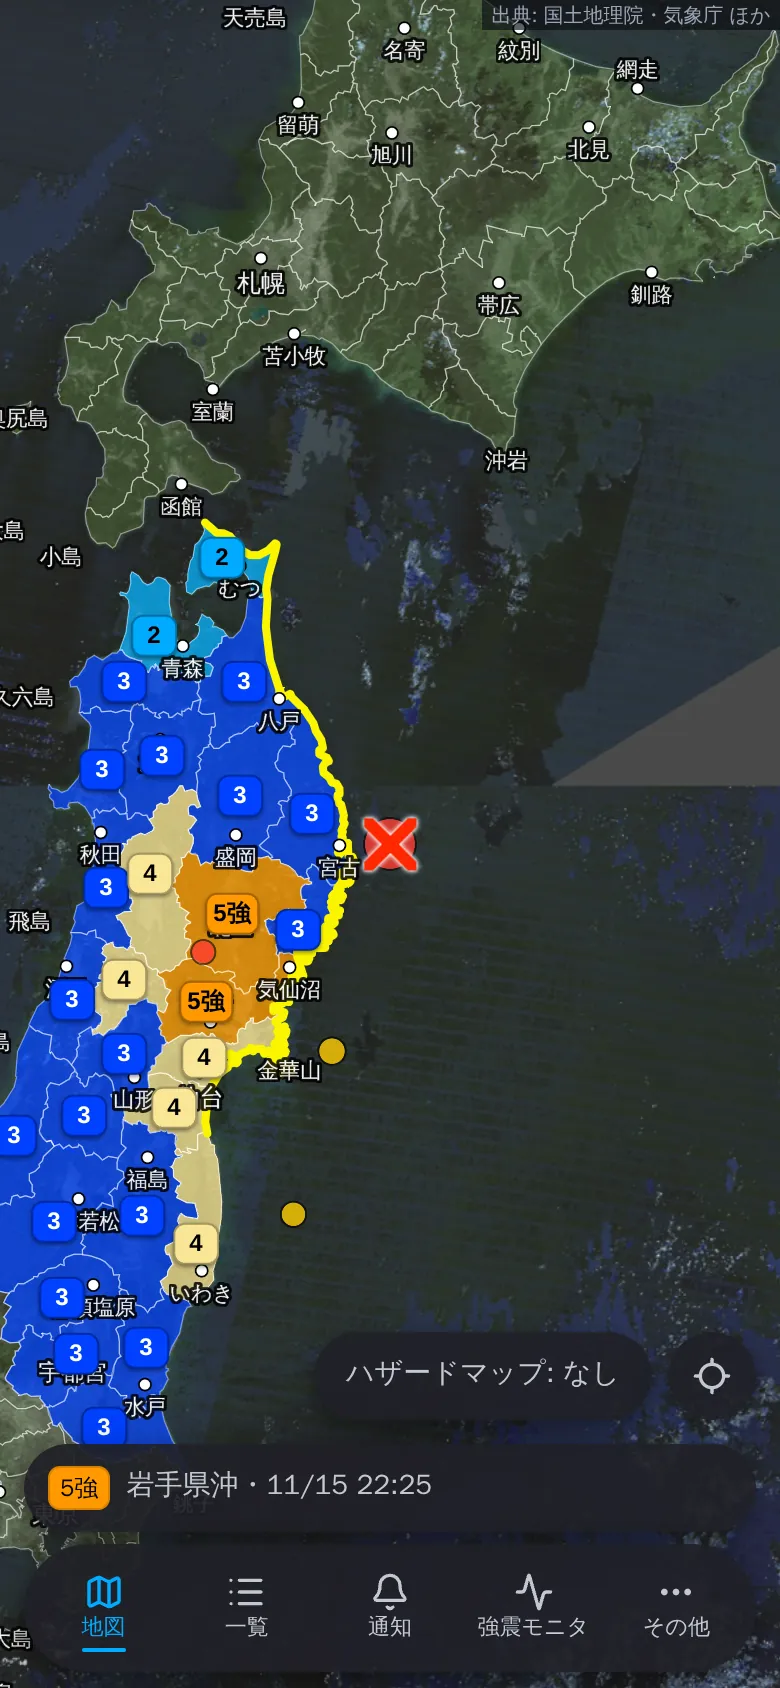
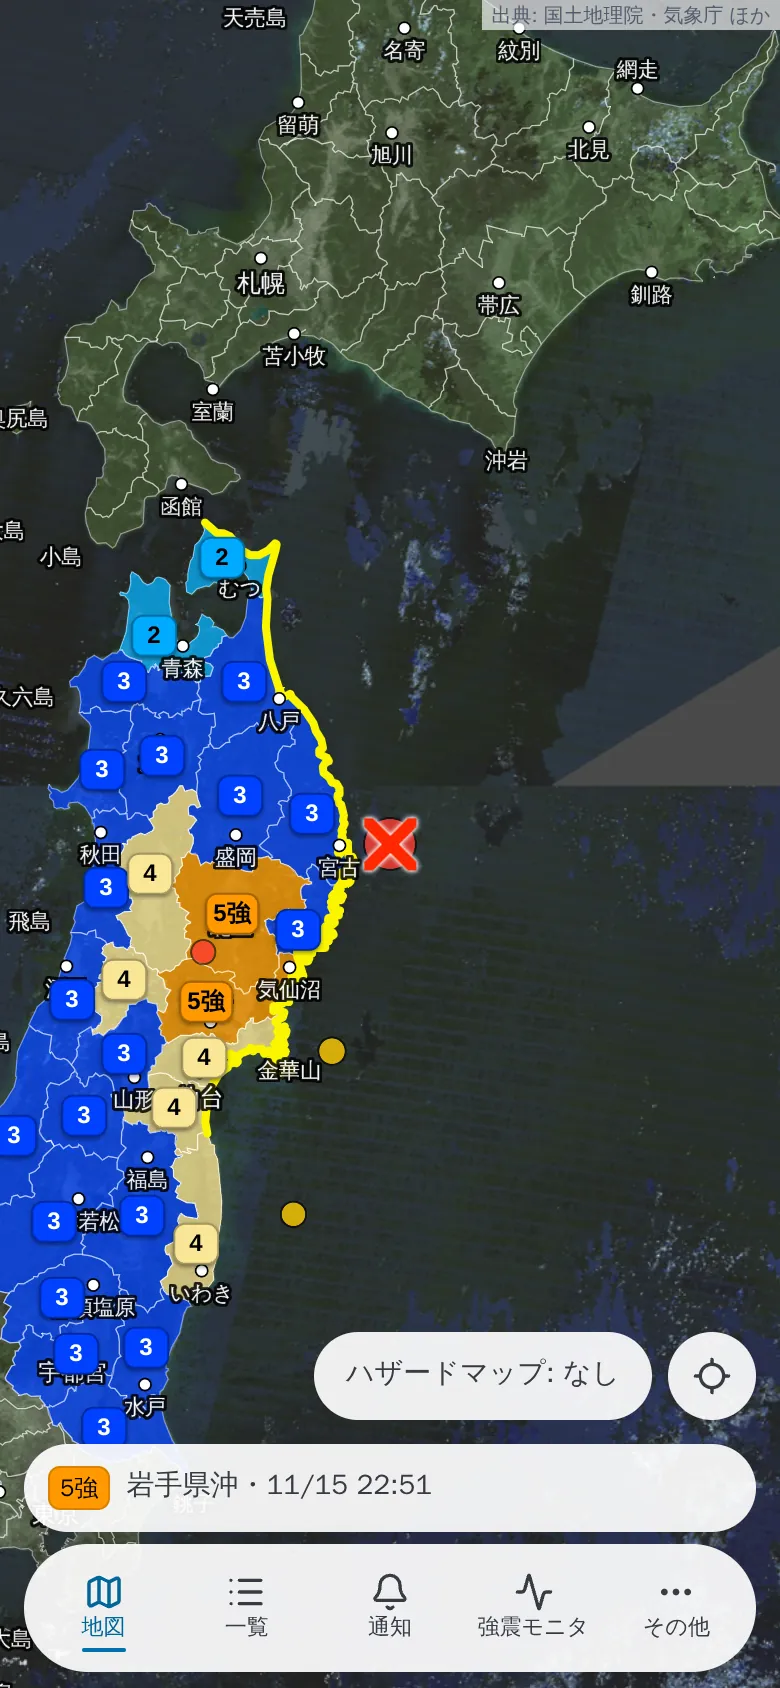
テーマの既定を端末に合わせる (描く前から)・スクリーンショットを明るいテーマで (#156)
* テーマ: 既定の「端末に合わせる」を描く前から確かにする・明るいテーマのマニフェスト

- <html> に固定の data-theme="dark" を書かない (スクリプトが描く前に付ける。動かなければ明るい)
- theme-color の既定を白に、明るいテーマでは地の色が白いマニフェスト (manifest-light.webmanifest) を読ませる
- 端末に合わせているときは、開いている間に端末の設定が変わっても付け直す

Claude-Session: https://claude.ai/code/session_01T8TqVdo6LUrWKdVQgbScVU

* README のスクリーンショットを明るいテーマで撮り直す (テーマは保存せず、端末に合わせる既定のまま)

Claude-Session: https://claude.ai/code/session_01T8TqVdo6LUrWKdVQgbScVU

* レビュー: app.html のマニフェストの置き換えもテストで見る・ホーム画面に足したあとは色が替わらないことを docs に

Claude-Session: https://claude.ai/code/session_01T8TqVdo6LUrWKdVQgbScVU

---------

Changed region(s): [[0.0308, 0.7701, 0.9846, 1.0], [0.6154, 0.0, 1.0, 0.0308]]

diff --git a/src/app.html b/src/app.html
@@ -1,5 +1,6 @@
 <!doctype html>
-<html lang="ja" data-theme="dark">
+<!-- テーマ (data-theme) は下のスクリプトが描く前に付ける。スクリプトが動かなければ明るいテーマ (app.css) -->
+<html lang="ja">
   <head>
     <meta charset="utf-8" />
     <meta name="viewport" content="width=device-width, initial-scale=1" />
@@ -8,7 +9,7 @@
       href="%sveltekit.assets%/favicon.svg"
       type="image/svg+xml"
     />
-    <meta name="theme-color" content="#0b0c0f" />
+    <meta name="theme-color" content="#ffffff" />
     <!-- iPhone・iPad はホーム画面に追加した Web アプリでだけ Web Push が届く (docs/design.md の 2.4) -->
     <link rel="manifest" href="%sveltekit.assets%/manifest.webmanifest" />
     <!-- iOS のホーム画面のアイコン (SVG は読まないので PNG。tools/icons/build.sh で作る) -->
@@ -33,16 +34,33 @@
         } catch {
           // 既定のまま
         }
-        const mode = saved === "light" || saved === "dark" ? saved : "system";
-        const dark =
-          mode === "dark" ||
-          (mode === "system" &&
-            matchMedia("(prefers-color-scheme: dark)").matches);
-        document.documentElement.dataset.theme = dark ? "dark" : "light";
-        document.documentElement.dataset.themeMode = mode;
-        document
-          .querySelector('meta[name="theme-color"]')
-          ?.setAttribute("content", dark ? "#0b0c0f" : "#ffffff");
+        const root = document.documentElement;
+        root.dataset.themeMode =
+          saved === "light" || saved === "dark" ? saved : "system";
+        // 決め方と付ける所は `#lib/prefs.ts` の applyTheme と同じ。CSS はまだ読んでいないので、地の色 (app.css の --so-bg) を直に書く
+        const scheme = matchMedia("(prefers-color-scheme: dark)");
+        const paint = () => {
+          const mode = root.dataset.themeMode;
+          const dark = mode === "dark" || (mode === "system" && scheme.matches);
+          root.dataset.theme = dark ? "dark" : "light";
+          document
+            .querySelector('meta[name="theme-color"]')
+            ?.setAttribute("content", dark ? "#0b0c0f" : "#ffffff");
+          // ホーム画面に足すときの地の色 (マニフェストの background_color と theme_color) も合わせる
+          const manifest = document.querySelector('link[rel="manifest"]');
+          manifest?.setAttribute(
+            "href",
+            manifest
+              .getAttribute("href")
+              .replace(
+                /manifest(-light)?\.webmanifest$/,
+                dark ? "manifest.webmanifest" : "manifest-light.webmanifest",
+              ),
+          );
+        };
+        paint();
+        // 端末に合わせているときは、開いている間に端末の設定が変わっても付け直す
+        scheme.addEventListener("change", paint);
       })();
     </script>
     %sveltekit.head%

diff --git a/tests/theme.test.ts b/tests/theme.test.ts
@@ -1,0 +1,62 @@
+import { describe, expect, test } from "bun:test";
+import { readFileSync } from "node:fs";
+
+import { manifestHref } from "#lib/prefs.ts";
+
+const read = (path: string): string =>
+  readFileSync(new URL(`../${path}`, import.meta.url), "utf8");
+
+describe("テーマの既定は端末に合わせる", () => {
+  const html = read("src/app.html");
+
+  test("<html> に決めたテーマを書かない (描く前のスクリプトが付ける)", () => {
+    expect(html).toMatch(/<html lang="ja">/);
+    expect(html).not.toMatch(/<html[^>]*data-theme=/);
+  });
+
+  test("保存が無ければ端末に合わせる", () => {
+    expect(html).toContain(
+      'saved === "light" || saved === "dark" ? saved : "system"',
+    );
+    expect(html).toContain("prefers-color-scheme: dark");
+  });
+});
+
+describe("マニフェストの地の色", () => {
+  const dark = JSON.parse(read("static/manifest.webmanifest"));
+  const light = JSON.parse(read("static/manifest-light.webmanifest"));
+
+  test("暗いのは暗いテーマの地、明るいのは白", () => {
+    expect(dark.background_color).toBe("#0b0c0f");
+    expect(dark.theme_color).toBe("#0b0c0f");
+    expect(light.background_color).toBe("#ffffff");
+    expect(light.theme_color).toBe("#ffffff");
+  });
+
+  test("色のほかは同じ", () => {
+    const strip = (m: Record<string, unknown>) => ({
+      ...m,
+      background_color: null,
+      theme_color: null,
+    });
+    expect(strip(light)).toEqual(strip(dark));
+  });
+
+  test("app.html の描く前のスクリプトも同じ置き換えをする", () => {
+    const html = read("src/app.html");
+    expect(html).toContain("/manifest(-light)?\\.webmanifest$/");
+    expect(html).toContain(
+      'dark ? "manifest.webmanifest" : "manifest-light.webmanifest"',
+    );
+  });
+
+  test("テーマで読むマニフェストを替える (行き来しても崩れない)", () => {
+    const l = manifestHref("/manifest.webmanifest", false);
+    expect(l).toBe("/manifest-light.webmanifest");
+    expect(manifestHref(l, false)).toBe("/manifest-light.webmanifest");
+    expect(manifestHref(l, true)).toBe("/manifest.webmanifest");
+    expect(manifestHref("./manifest.webmanifest", false)).toBe(
+      "./manifest-light.webmanifest",
+    );
+  });
+});

diff --git a/src/app.css b/src/app.css
@@ -4,7 +4,7 @@
  *
  * - トークンの名前は denpa の `--dp-*` を `--so-*` にしたもの。値は denpa と同じ
  * - 層は地・件の面・操作の層の 3 つ (denpa の design.md 2 章)
- * - テーマは暗いのが既定で、明るい・端末に合わせるも選べる (app.html と `#lib/prefs.ts` が <html data-theme> を付ける)
+ * - テーマの既定は端末に合わせる。暗い・明るいも選べる (app.html と `#lib/prefs.ts` が <html data-theme> を付ける。スクリプトが動かなければ明るい)
  * - スマホの形は `<html data-phone>` (1000px 未満。app.html が描く前に付ける)。上のヘッダーを出さず、下のタブと dock に寄せる
  * - 動きは CSS の透明度と transform だけ。動きを減らす設定では全部止める (ファイルの最後)
  *
@@ -100,7 +100,7 @@
   }
 }
 
-/* 明るいテーマ。値は Pico の色見本の段 (denpa と同じ) */
+/* 明るいテーマ (data-theme が無いときも)。値は Pico の色見本の段 (denpa と同じ) */
 :root:not([data-theme="dark"]),
 [data-theme="light"] {
   color-scheme: light;
@@ -132,7 +132,7 @@
   --so-warn-text: #694d00;
   --so-info-text: #025d5d;
 }
-/* 暗いテーマ (既定)。ほぼ黒で色みを抑えた段 (denpa と同じ) */
+/* 暗いテーマ。ほぼ黒で色みを抑えた段 (denpa と同じ) */
 [data-theme="dark"] {
   color-scheme: dark;
   --pico-background-color: #0b0c0f;

diff --git a/src/lib/prefs.ts b/src/lib/prefs.ts
@@ -29,7 +29,10 @@ export function removePref(key: string): void {
 
 export type ThemeMode = "dark" | "light" | "system";
 
-/** テーマを当てる (app.html の描く前のスクリプトと同じ決め方) */
+/**
+ * テーマを選んで当てる (app.html の描く前のスクリプトと同じ決め方と付ける所)。既定は端末に合わせる。
+ * 端末の設定が変わったときの付け直しは app.html が `data-theme-mode` を見てする
+ */
 export function applyTheme(mode: ThemeMode): void {
   const dark =
     mode === "dark" ||
@@ -39,5 +42,16 @@ export function applyTheme(mode: ThemeMode): void {
   document
     .querySelector('meta[name="theme-color"]')
     ?.setAttribute("content", dark ? "#0b0c0f" : "#ffffff");
+  const manifest = document.querySelector('link[rel="manifest"]');
+  const href = manifest?.getAttribute("href");
+  if (manifest && href) manifest.setAttribute("href", manifestHref(href, dark));
   writePref("theme", mode);
+}
+
+/** テーマの地の色のマニフェスト (暗いのは `manifest.webmanifest`、明るいのは `manifest-light.webmanifest`) */
+export function manifestHref(href: string, dark: boolean): string {
+  return href.replace(
+    /manifest(-light)?\.webmanifest$/,
+    dark ? "manifest.webmanifest" : "manifest-light.webmanifest",
+  );
 }

diff --git a/tests/hooks.test.ts b/tests/hooks.test.ts
@@ -83,6 +83,7 @@ describe("ログイン無しで開けるところ", () => {
     "/auth/callback",
     "/service-worker.js",
     "/manifest.webmanifest",
+    "/manifest-light.webmanifest",
   ]) {
     test(`${path} は Cookie が無くても通す`, async () => {
       const r = await run(path, { accept: HTML });

diff --git a/src/hooks.server.ts b/src/hooks.server.ts
@@ -72,6 +72,7 @@ const PUBLIC = new Set([
   "/auth/callback",
   "/service-worker.js",
   "/manifest.webmanifest",
+  "/manifest-light.webmanifest",
 ]);
 
 /**

diff --git a/docs/design.md b/docs/design.md
@@ -303,7 +303,7 @@ devDependencies に入れ、Vite がサーバーに束ねる。テスト (`tests
   - 起動したときに長期フィードで埋めた昔の電文を鳴らさないよう、事象の時刻から緊急地震速報は 3 分・地震と記録的短時間大雨情報・竜巻注意情報は 1 時間・津波・お知らせ・火山・気象警報は 6 時間を過ぎたものは送らない。有効期限の過ぎた竜巻注意情報も送らない。
 - **送り方:** 緊急地震速報と津波、噴火速報と噴火警報 (居住地域)、気象の危険警報・特別警報と記録的短時間大雨情報・竜巻注意情報は `Urgency: high`。`TTL` は緊急地震速報 120 秒 (遅れて届いても意味が無い)、地震情報と記録的短時間大雨情報・竜巻注意情報 1 時間、津波・お知らせ・火山・気象警報 6 時間。緊急地震速報の警報と津波警報以上、噴火速報と噴火警報 (居住地域)、気象の危険警報・特別警報は、閉じるまで残す (`requireInteraction`)。
 - **Service Worker** (`src/service-worker/`、SvelteKit が自動で登録): 通知を出し、押されたらその事象の画面 (1 つの画面でその件を選んだ URL。`/?q=<id>`・`/?k=tsunami&t=<id>`・`/?k=eew&e=<識別番号>`。[ui.md](ui.md)) を開く。開いている画面があればそれを移して前に出す。このサイトの中のパスしか開かない。画面やデータの控え (オフライン) はしない (古い地震情報を出さないため)。型は WebWorker の型で、`bun run check` が別に見る。
-- **iPhone・iPad:** ホーム画面に追加した Web アプリ (iOS 16.4 以降) でだけ Web Push が届く。そのための Web アプリのマニフェスト (`static/manifest.webmanifest`) を置き、ダイアログで案内する。
+- **iPhone・iPad:** ホーム画面に追加した Web アプリ (iOS 16.4 以降) でだけ Web Push が届く。そのための Web アプリのマニフェスト (`static/manifest.webmanifest`。明るいテーマでは地の色だけが違う `manifest-light.webmanifest`) を置き、ダイアログで案内する。
 - **使えないブラウザ:** 機能が無い・届かない宛先を返す (Android の Edge は `permanently-removed.invalid`)・登録が例外で止まる、のどれでも、ダイアログに何ができないかと代わりの道 (ほかのブラウザ・開いている間の通知と音) を出し、黙って押せないままにしない。決めるのは機能の有無と宛先で、ブラウザの名前は文に添えるだけ (`#lib/push-support.ts`。[push.md](push.md) の「使えないブラウザ」)。
 - **ホーム画面のアイコン:** iOS と Android のホーム画面は SVG のアイコンを使わないので、`static/favicon.svg` から PNG を作って `static/icons/` に置く (192・512・maskable の 512 をマニフェストに、180 の `apple-touch-icon.png` を `app.html` の `<link rel="apple-touch-icon">` に)。白い地に印を置き、maskable は印を安全な円 (直径 80%) に収まる 55% にする。作り方はホストに何も入れず、コンテナの rsvg-convert で描く。`favicon.svg` を変えたら、次のコマンドで作り直してコミットする。
 
@@ -599,6 +599,9 @@ Leaflet の 1.9 は 3 年近く出ておらず、2.0 はまだ beta。
 - **動きは CSS の透明度と transform だけ** (denpa の 7 章)。JS がするのは印 (`data-view`・`data-retract`) の付け外しだけ。動きを減らす設定では時間を 0 にし、繰り返す動きを止める
 - **空の状態と、絞り込んで当てはまらないときは `.empty-state`** (denpa の 8 章)。絞り込んで (欄かチップで) 無いときは「当てはまるものはありません」だけ。sonae には見せる画面が無いので、地の光 (`.glow`) は敷かない
 - **テーマの既定は端末に合わせる** (denpa と同じ選べる 3 つ。暗い・明るい・端末に合わせる)。保存した選択はそのまま使う (localStorage の `sonae.theme`)
+  - `app.html` のスクリプトが描く前に `<html data-theme>` とブラウザの枠の色 (`theme-color`) を付ける。`<html>` には決めたテーマを書かないので、明るい端末で暗い画面が一瞬出ることはない。スクリプトが動かなければ明るいテーマ (`app.css`)
+  - 端末に合わせているときは、開いている間に端末の設定が変わっても付け直す
+  - ホーム画面に足すときの地の色もテーマに合わせる。暗いテーマは `static/manifest.webmanifest`、明るいテーマは色だけが違う `static/manifest-light.webmanifest` を読ませる。ホーム画面に足したあとはブラウザが足したときの色を使い、テーマを変えても替わらない
 - **お知らせは、問題があるときだけヘッダー (スマホの形は dock) の印に畳む** (denpa の 6 章「通知」)。受信の状態はふだん出さず、つながっていない情報源があるときだけ注意の印 (⚠ と一言) を出し、押すとメニューと同じ箱で情報源ごとの受信を出す
 
 ### 6.2 sonae だけの決まり
